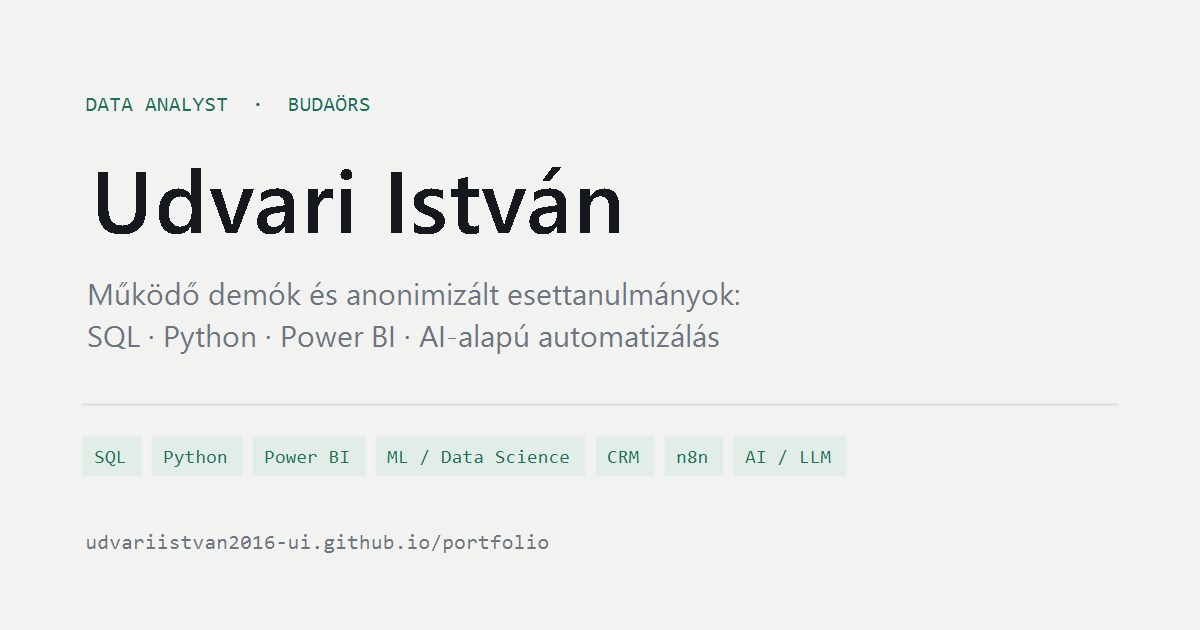
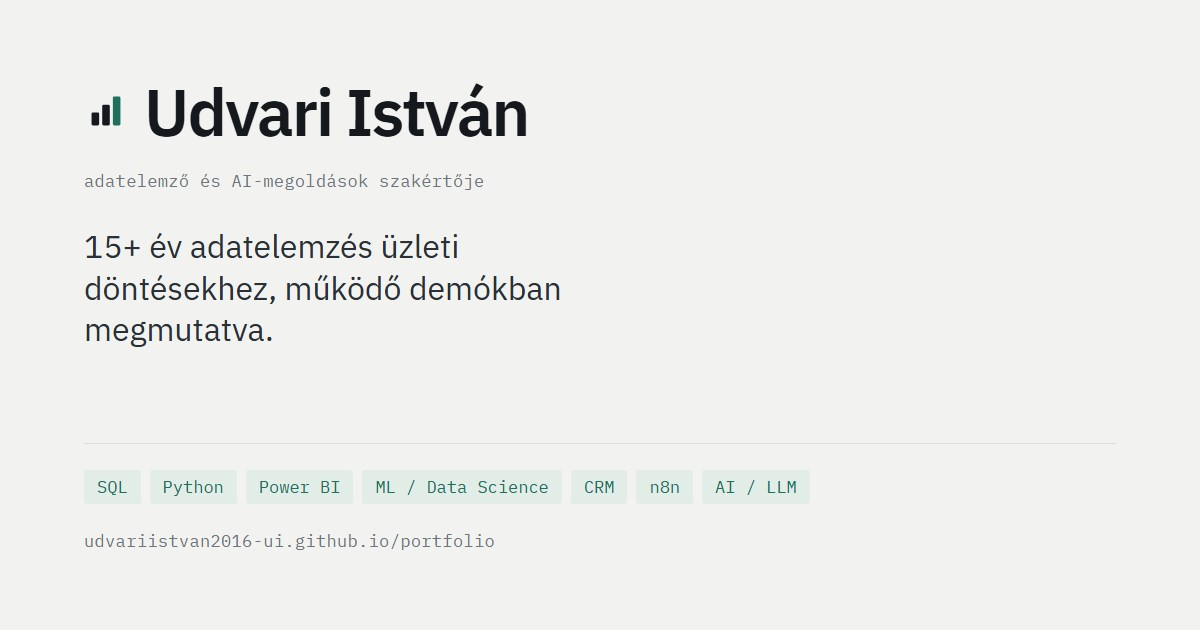
Kapcsolat szekcio, meta- es OG-leiras az uj hero-mondathoz igazitva

diff --git a/index.html b/index.html
@@ -4,7 +4,7 @@
 <meta charset="utf-8">
 <meta name="viewport" content="width=device-width, initial-scale=1">
 <title>Udvari István — Data Analyst</title>
-<meta name="description" content="15+ év marketing-, CRM- és kampányanalitika. Szegmentálás, A/B tesztek, dashboardok, automatizálás — SQL, Python, Power BI, Excel. Demók és esettanulmányok.">
+<meta name="description" content="15+ év adatelemzés üzleti döntésekhez, működő demókban megmutatva. Szegmentálás, kampányanalitika, dashboardok, automatizálás — SQL, Python, Power BI, Excel.">
 <link rel="canonical" href="https://udvariistvan2016-ui.github.io/portfolio/">
 
 <!-- Favicon: növekvő oszlopdiagram — egyetlen motívum, hogy 16 px-en is
@@ -24,7 +24,7 @@
 <meta property="og:site_name" content="Udvari István — Data Analyst">
 <meta property="og:url" content="https://udvariistvan2016-ui.github.io/portfolio/">
 <meta property="og:title" content="Udvari István — Data Analyst">
-<meta property="og:description" content="15+ év marketing-, CRM- és kampányanalitika. Üzleti kérdéseket fordítok le az adatok nyelvére: szegmentálás, A/B tesztek, dashboardok, automatizálás. Működő demók és anonimizált esettanulmányok.">
+<meta property="og:description" content="15+ év adatelemzés üzleti döntésekhez, működő demókban megmutatva. Üzleti kérdéseket fordítok le az adatok nyelvére: szegmentálás, kampányanalitika, funnel- és benchmark-elemzés, dashboardok, automatizálás.">
 <meta property="og:image" content="https://udvariistvan2016-ui.github.io/portfolio/assets/og-kep.jpg">
 <meta property="og:image:width" content="1200">
 <meta property="og:image:height" content="630">
@@ -32,7 +32,7 @@
 
 <meta name="twitter:card" content="summary_large_image">
 <meta name="twitter:title" content="Udvari István — Data Analyst">
-<meta name="twitter:description" content="15+ év marketing-, CRM- és kampányanalitika. Üzleti kérdéseket fordítok le az adatok nyelvére: szegmentálás, A/B tesztek, dashboardok, automatizálás. Működő demók és anonimizált esettanulmányok.">
+<meta name="twitter:description" content="15+ év adatelemzés üzleti döntésekhez, működő demókban megmutatva. Üzleti kérdéseket fordítok le az adatok nyelvére: szegmentálás, kampányanalitika, funnel- és benchmark-elemzés, dashboardok, automatizálás.">
 <meta name="twitter:image" content="https://udvariistvan2016-ui.github.io/portfolio/assets/og-kep.jpg">
 
 <!-- ============================================================
@@ -734,6 +734,29 @@ table.matrix{
   font-size:var(--fs-sm);
 }
 
+/* ---------- Kapcsolat ---------- */
+.kapcsolat{
+  border-top:1px solid var(--line);
+  padding-top:34px;
+  margin-top:40px;
+}
+
+.kapcsolat h2{
+  font-size:var(--fs-h2);
+  font-weight:600;
+  letter-spacing:-.015em;
+  margin-bottom:14px;
+}
+
+.kapcsolat p{
+  font-size:var(--fs-lead);
+  color:#3A4048;
+  max-width:52ch;
+  margin-bottom:24px;
+}
+
+.kapcsolat .links{margin-bottom:6px}
+
 /* ---------- lábléc ---------- */
 footer{
   border-top:1px solid var(--line);
@@ -774,6 +797,7 @@ footer a:hover{color:var(--accent)}
     <nav class="fejlec-nav">
       <a href="#projektek" data-en="Projects">Projektek</a>
       <a href="#rolam" data-en="About">Rólam</a>
+      <a href="#kapcsolat" data-en="Contact">Kapcsolat</a>
       <div class="nyelv" role="group" aria-label="Nyelv / Language">
         <button type="button" data-lang="hu" aria-pressed="true">HU</button>
         <button type="button" data-lang="en" aria-pressed="false">EN</button>
@@ -796,9 +820,9 @@ footer a:hover{color:var(--accent)}
       </a>
       <!-- Az e-mail cím szándékosan NINCS benne nyersen a forrásban (spamrobotok
            ellen). A gomb kattintásra állítja össze — lásd a lenti szkriptet. -->
-      <button type="button" id="mailgomb">
+      <button type="button" id="mailgomb" class="mailgomb">
         <svg viewBox="0 0 24 24" fill="none" stroke="currentColor" stroke-width="2" aria-hidden="true"><rect x="2" y="4" width="20" height="16" rx="2"/><path d="m2 7 10 6 10-6"/></svg>
-        <span id="mailfelirat">E-mail cím mutatása</span>
+        <span id="mailfelirat" class="mailfelirat">E-mail cím mutatása</span>
       </button>
     </nav>
 
@@ -909,6 +933,26 @@ footer a:hover{color:var(--accent)}
     </div>
   </section>
 
+  <section class="kapcsolat" id="kapcsolat">
+    <h2 data-en="Contact">Kapcsolat</h2>
+
+    <p data-en="If you have a data question, or a role this profile fits, get in touch. I read every message.">Ha van egy adatos kérdésed, vagy egy pozíció, amihez ez a profil illik,
+    keress nyugodtan. Minden megkeresést elolvasok.</p>
+
+    <nav class="links">
+      <a href="https://www.linkedin.com/in/istvanudvari" target="_blank" rel="noopener">
+        <svg viewBox="0 0 24 24" fill="currentColor" aria-hidden="true"><path d="M19 3A2 2 0 0 1 21 5v14a2 2 0 0 1-2 2H5a2 2 0 0 1-2-2V5a2 2 0 0 1 2-2h14m-.5 15.5v-5.3a3.26 3.26 0 0 0-3.26-3.26c-.85 0-1.84.52-2.32 1.3v-1.11h-2.79v8.37h2.79v-4.93c0-.77.62-1.4 1.39-1.4a1.4 1.4 0 0 1 1.4 1.4v4.93h2.79M6.88 8.56a1.68 1.68 0 0 0 1.68-1.68c0-.93-.75-1.69-1.68-1.69a1.69 1.69 0 0 0-1.69 1.69c0 .93.76 1.68 1.69 1.68m1.39 9.94v-8.37H5.5v8.37h2.77z"/></svg>
+        LinkedIn
+      </a>
+      <!-- Ugyanaz a rejtett e-mail gomb, mint a heroban - a cim itt sincs
+           benne nyersen a forrasban. -->
+      <button type="button" class="mailgomb">
+        <svg viewBox="0 0 24 24" fill="none" stroke="currentColor" stroke-width="2" aria-hidden="true"><rect x="2" y="4" width="20" height="16" rx="2"/><path d="m2 7 10 6 10-6"/></svg>
+        <span class="mailfelirat">E-mail cím mutatása</span>
+      </button>
+    </nav>
+  </section>
+
   <footer>
     <span>© <span id="ev"></span> Udvari István</span>
     <span><a href="https://www.linkedin.com/in/istvanudvari" target="_blank" rel="noopener">linkedin.com/in/istvanudvari</a></span>
@@ -1017,11 +1061,12 @@ footer a:hover{color:var(--accent)}
      Ha módosítanád: btoa("uj@cim.hu") a böngésző konzoljában,
      és rajzold újra a két PNG-t. */
   var mail = (function(){
-    var gomb    = document.getElementById("mailgomb");
-    var felirat = document.getElementById("mailfelirat");
-    if(!gomb || !felirat) return { nyelvvaltas:function(){} };
+    // tobb gomb is lehet belole (hero + Kapcsolat szekcio); mindegyik
+    // fuggetlenul fedi fel magat, a dekodolt cim viszont kozos
+    var gombok = [].slice.call(document.querySelectorAll(".mailgomb"));
+    if(!gombok.length) return { nyelvvaltas:function(){} };
 
-    var cim = null, jelzes = null, ido = null;
+    var cim = null;
 
     function kep(fajl, alt){
       var i = document.createElement("img");
@@ -1030,44 +1075,58 @@ footer a:hover{color:var(--accent)}
       return i;
     }
 
-    function felfed(){
-      cim = atob("dWR2YXJpLmlzdHZhbjIwMTZAZ21haWwuY29t");
-      // a kép alt szövegei a dekódolt címből, hogy a forrásban ne legyenek meg
-      var elotte = cim.split("@")[0];
-      var utana  = cim.split("@")[1].split(".")[0];
+    var peldanyok = gombok.map(function(gomb){
+      var felirat = gomb.querySelector(".mailfelirat");
+      if(!felirat) return { nyelvvaltas:function(){} };
 
-      felirat.textContent = "";
-      felirat.appendChild(kep("assets/logo1.png", elotte));
-      felirat.appendChild(document.createTextNode("@"));
-      felirat.appendChild(kep("assets/logo2.png", utana));
-      felirat.appendChild(document.createTextNode(".com"));
+      var felfedve = false, jelzes = null, ido = null;
 
-      jelzes = document.createElement("span");
-      jelzes.className = "mail-jelzes";
-      felirat.appendChild(jelzes);
+      function felfed(){
+        if(cim === null) cim = atob("dWR2YXJpLmlzdHZhbjIwMTZAZ21haWwuY29t");
+        // a kép alt szövegei a dekódolt címből, hogy a forrásban ne legyenek meg
+        var elotte = cim.split("@")[0];
+        var utana  = cim.split("@")[1].split(".")[0];
 
-      gomb.setAttribute("title", t("mailTitle"));
-    }
+        felirat.textContent = "";
+        felirat.appendChild(kep("assets/logo1.png", elotte));
+        felirat.appendChild(document.createTextNode("@"));
+        felirat.appendChild(kep("assets/logo2.png", utana));
+        felirat.appendChild(document.createTextNode(".com"));
 
-    function masol(){
-      if(!navigator.clipboard) return;
-      navigator.clipboard.writeText(cim).then(function(){
-        jelzes.textContent = t("masolva");
-        clearTimeout(ido);
-        ido = setTimeout(function(){ jelzes.textContent = ""; }, 1800);
-      }, function(){});
-    }
+        jelzes = document.createElement("span");
+        jelzes.className = "mail-jelzes";
+        felirat.appendChild(jelzes);
 
-    gomb.addEventListener("click", function(){
-      if(cim === null){ felfed(); } else { masol(); }
+        felfedve = true;
+        gomb.setAttribute("title", t("mailTitle"));
+      }
+
+      function masol(){
+        if(!navigator.clipboard) return;
+        navigator.clipboard.writeText(cim).then(function(){
+          jelzes.textContent = t("masolva");
+          clearTimeout(ido);
+          ido = setTimeout(function(){ jelzes.textContent = ""; }, 1800);
+        }, function(){});
+      }
+
+      gomb.addEventListener("click", function(){
+        if(!felfedve){ felfed(); } else { masol(); }
+      });
+
+      return {
+        // felfedés előtt a feliratot, utána csak a tooltipet cseréli —
+        // a már megjelenített képdarabokhoz nem nyúl
+        nyelvvaltas:function(){
+          if(!felfedve){ felirat.textContent = t("mailMutat"); }
+          else { gomb.setAttribute("title", t("mailTitle")); }
+        }
+      };
     });
 
     return {
-      // felfedés előtt a feliratot, utána csak a tooltipet cseréli —
-      // a már megjelenített képdarabokhoz nem nyúl
       nyelvvaltas:function(){
-        if(cim === null){ felirat.textContent = t("mailMutat"); }
-        else { gomb.setAttribute("title", t("mailTitle")); }
+        peldanyok.forEach(function(p){ p.nyelvvaltas(); });
       }
     };
   })();
